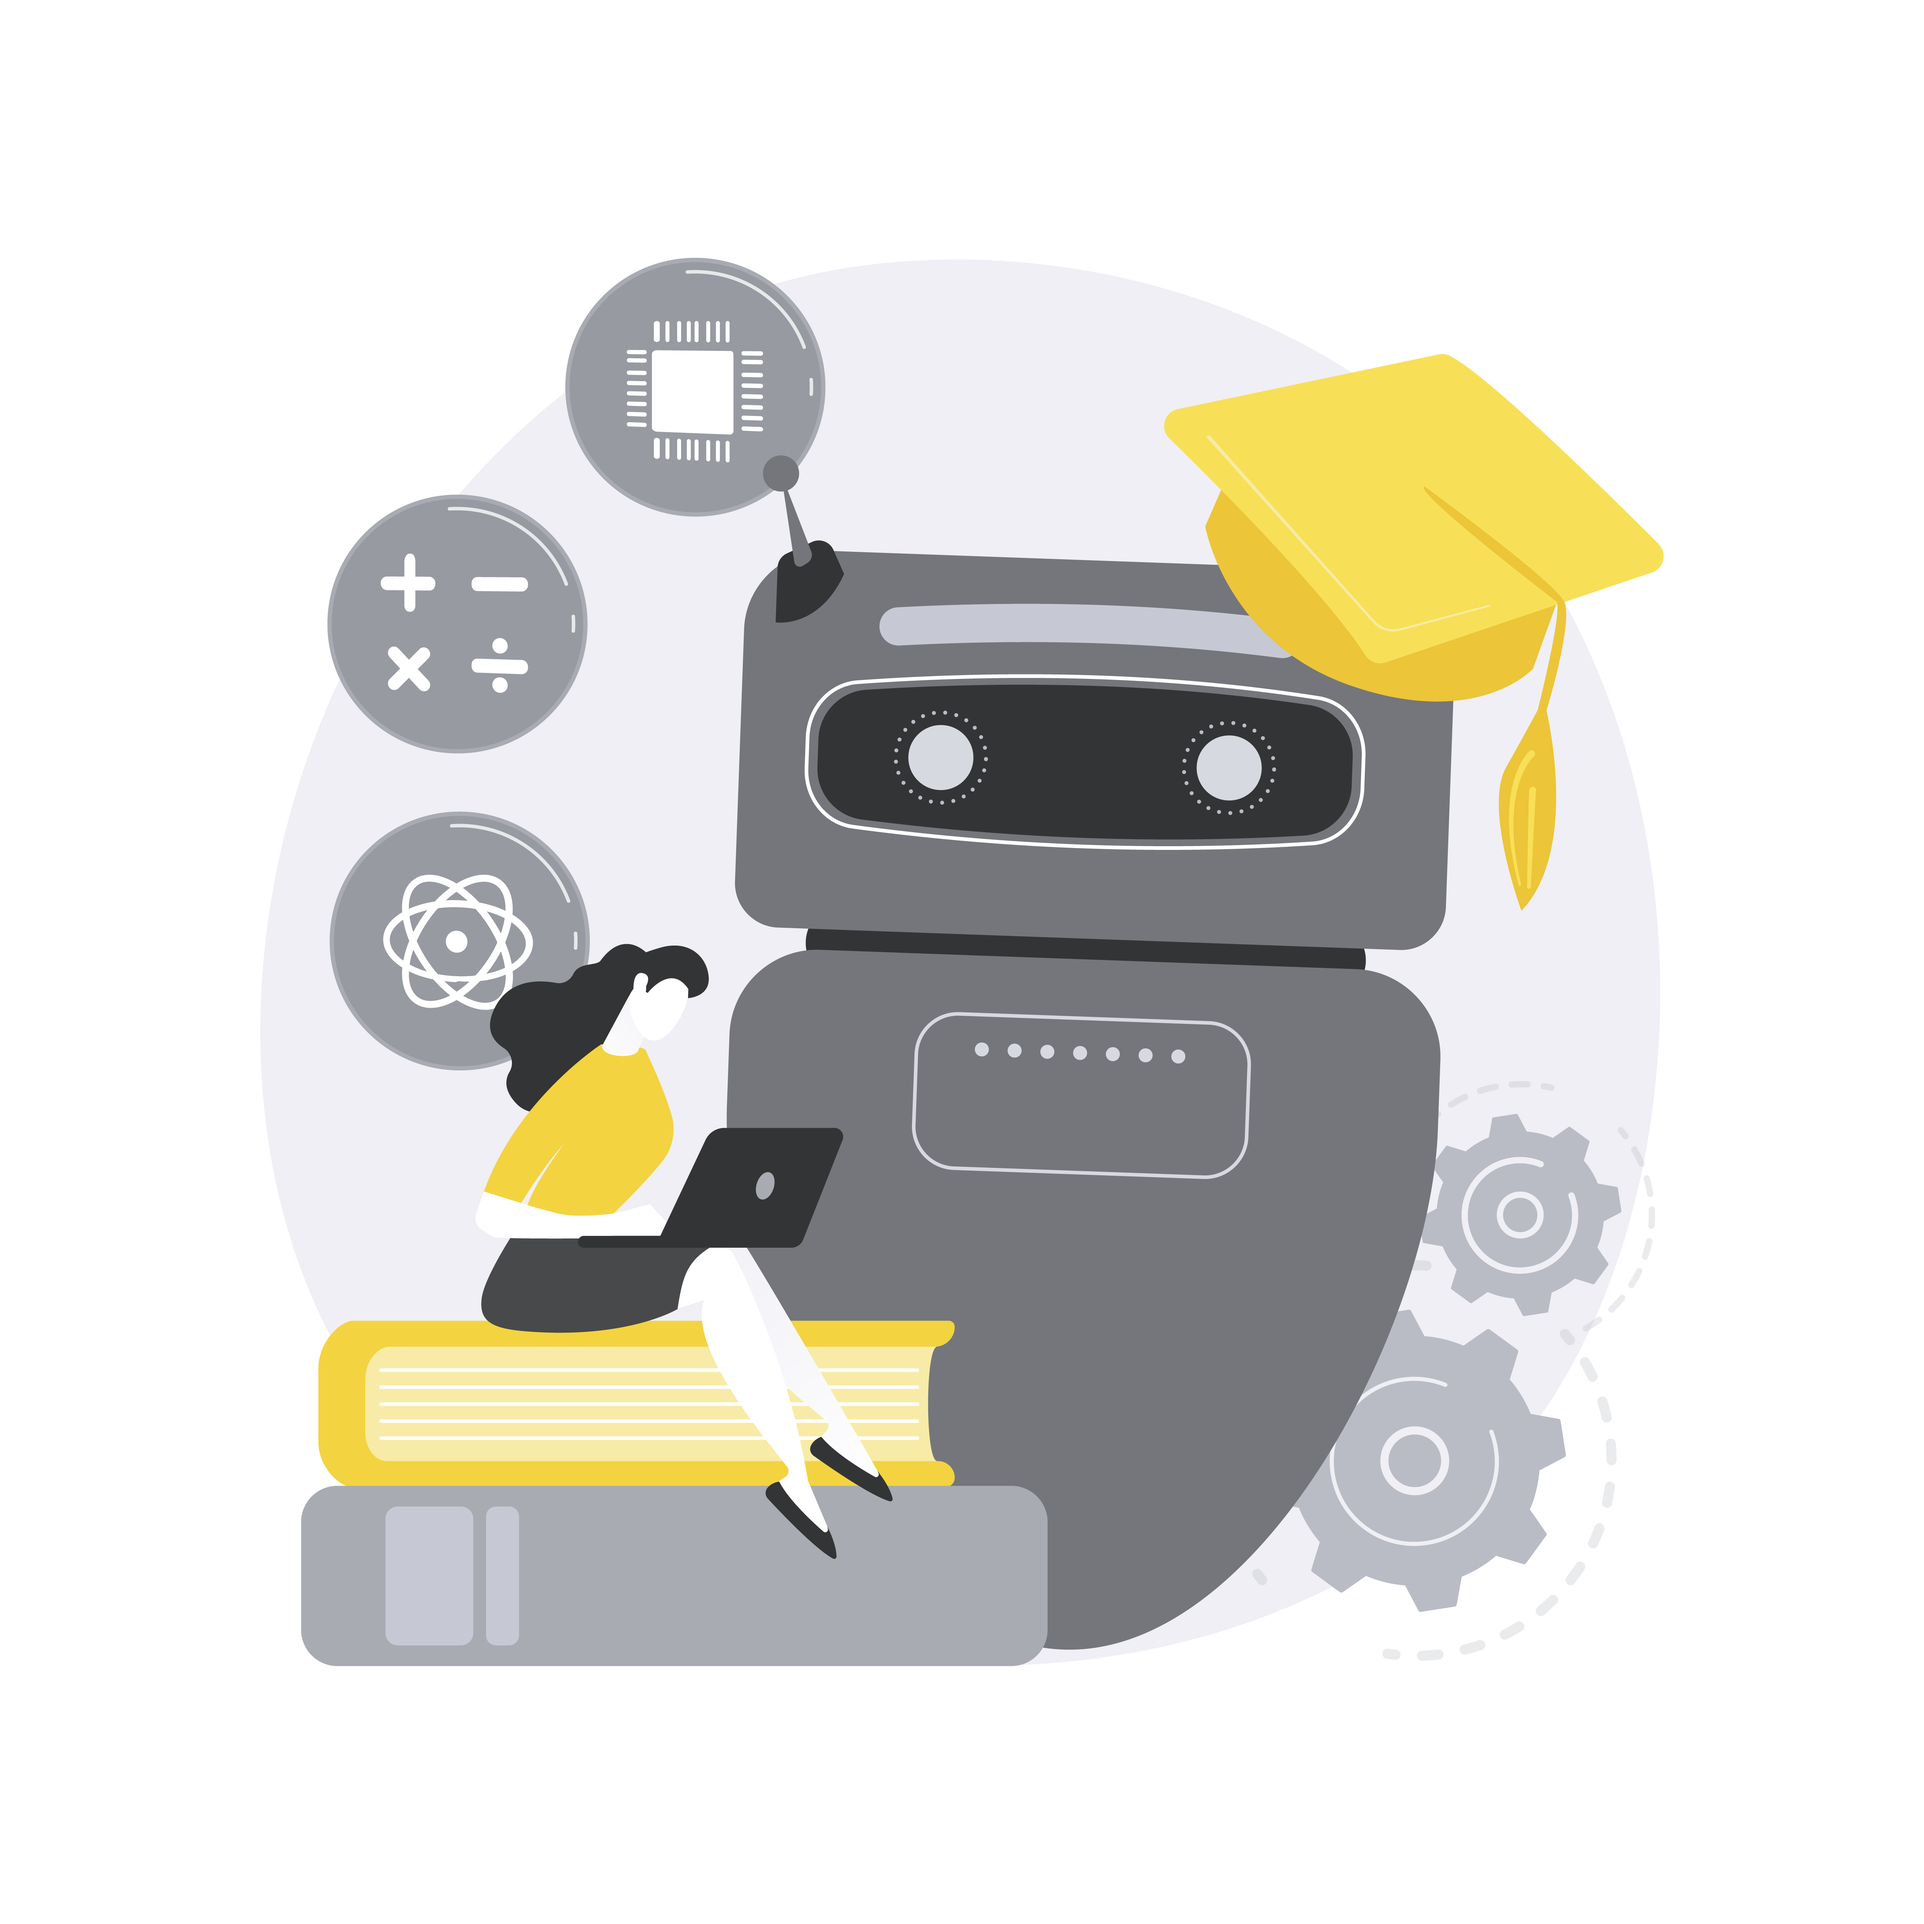
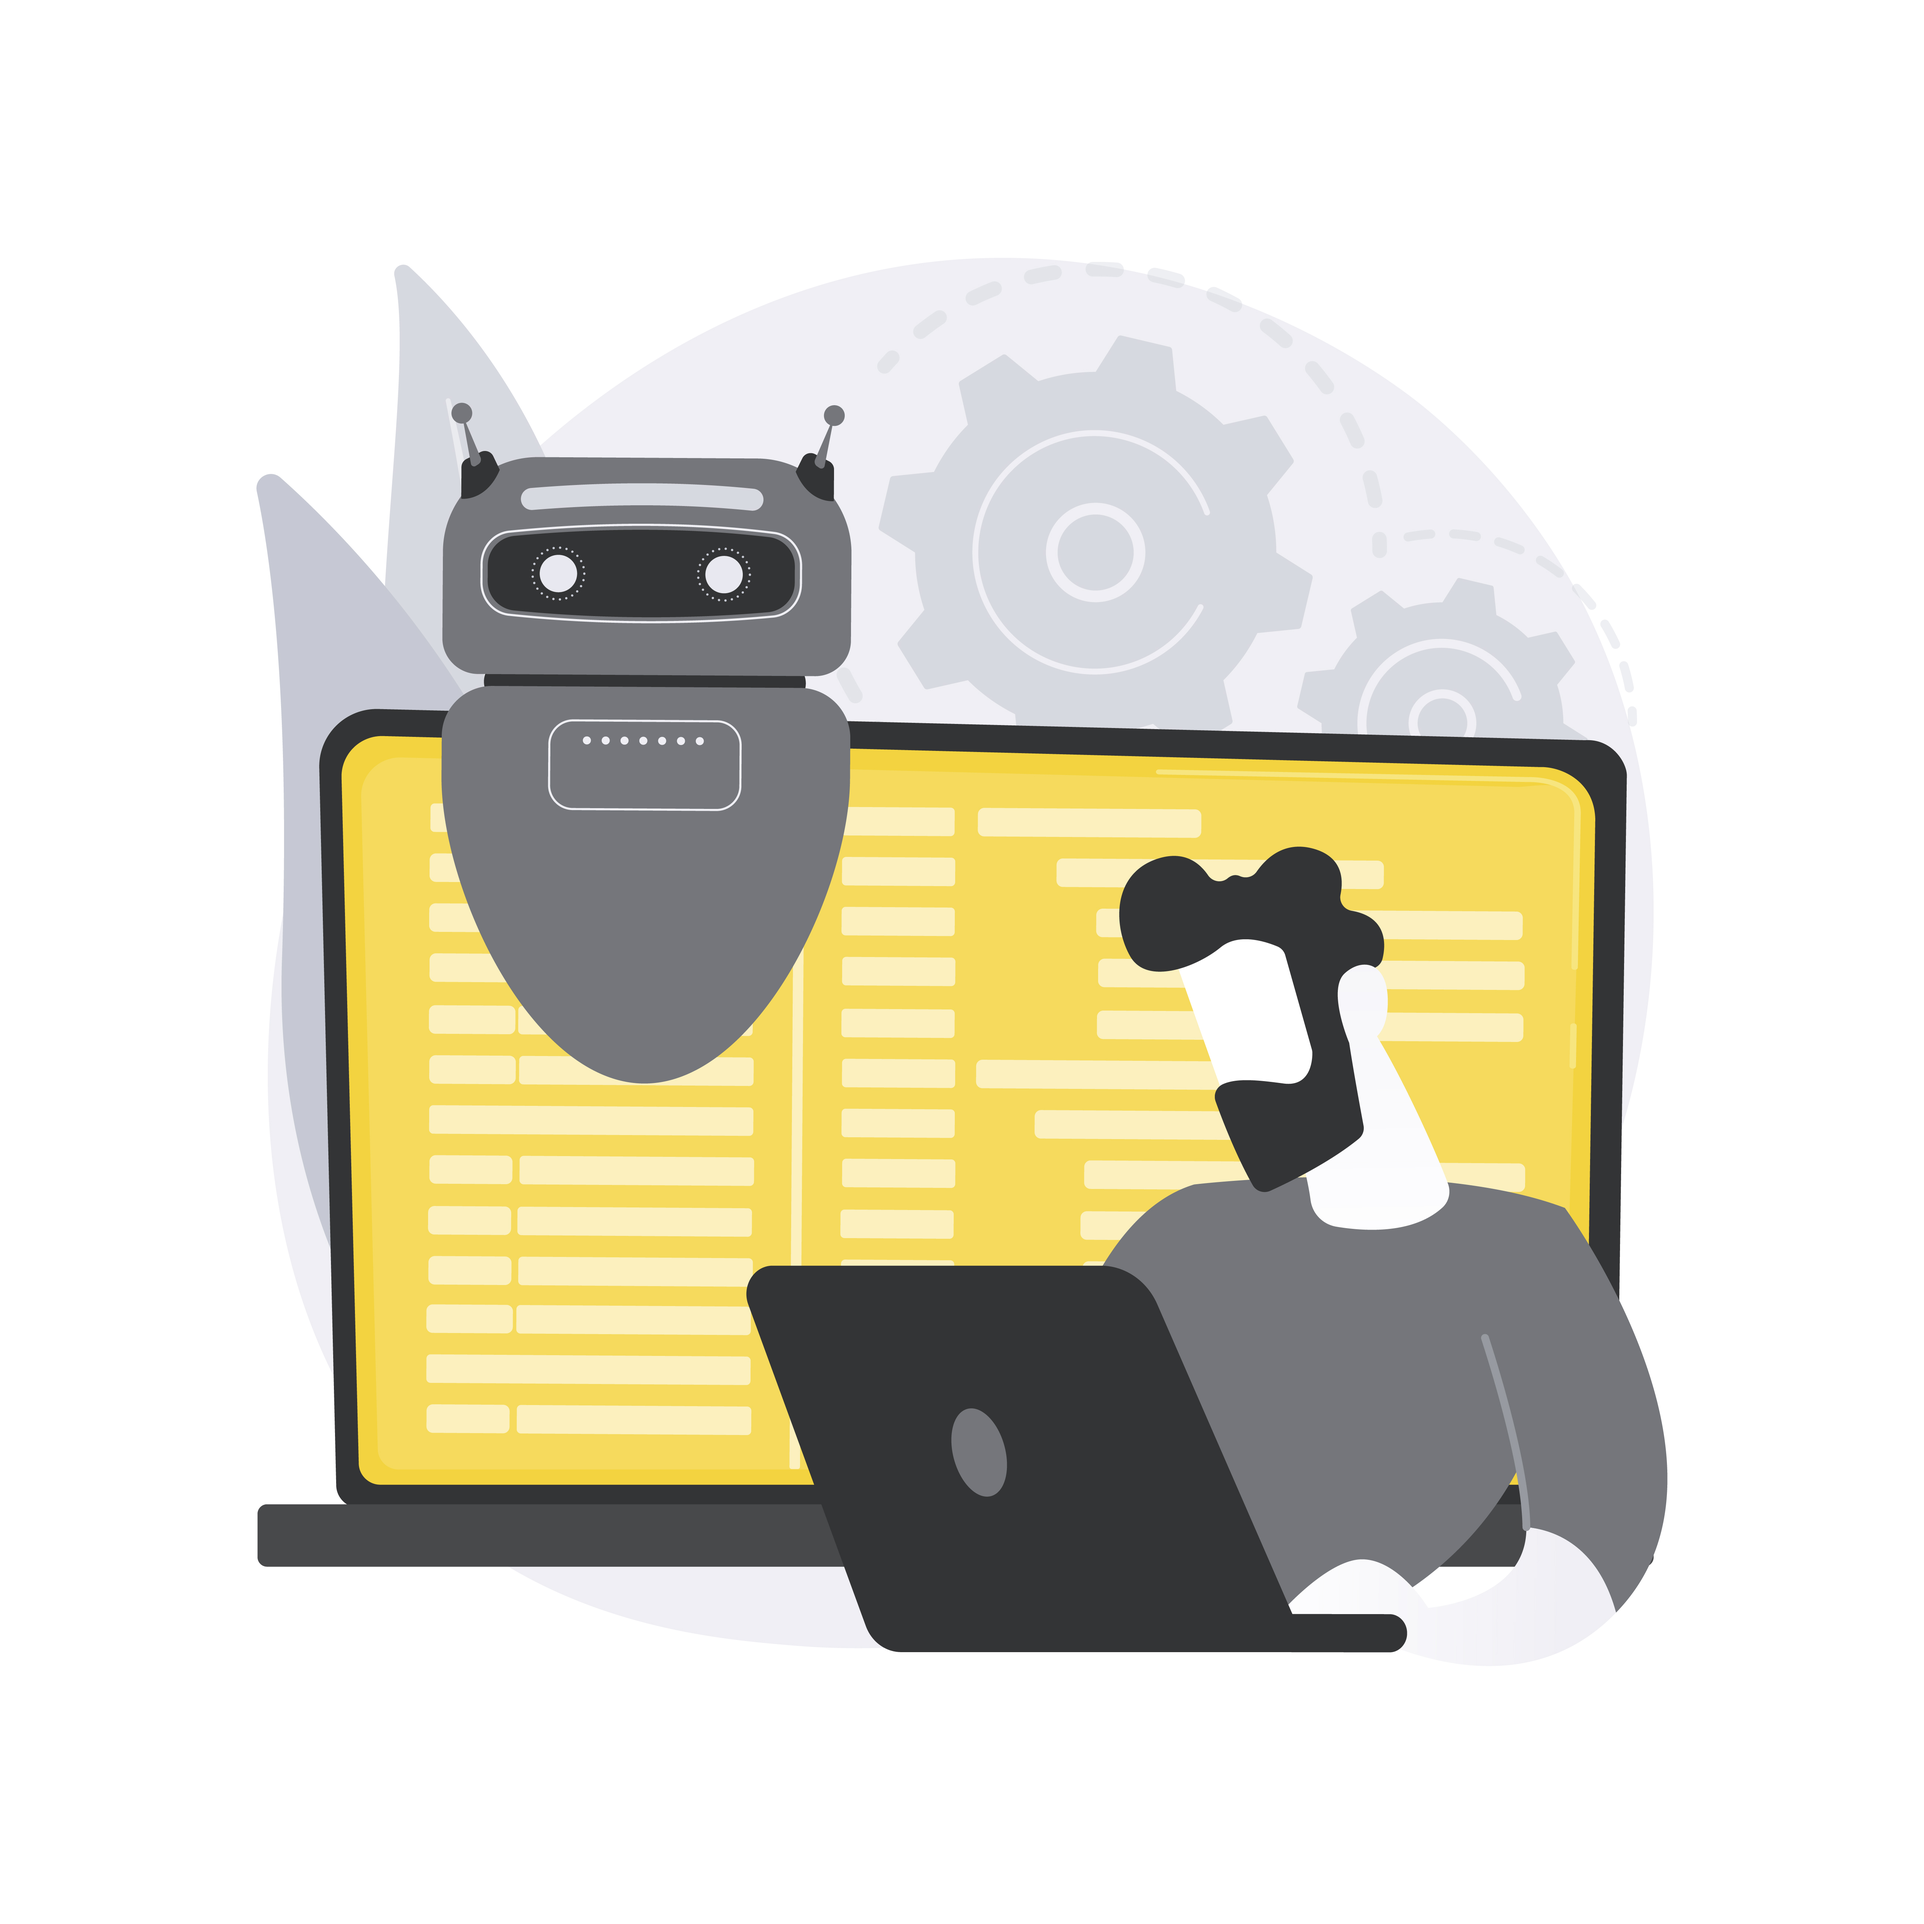
add images in whychooseus

diff --git a/src/components/WhyChooseUs.jsx b/src/components/WhyChooseUs.jsx
@@ -1,5 +1,9 @@
 import { motion } from 'framer-motion';
 import { BookOpen, GraduationCap, Laptop, ClipboardCheck, ShieldCheck, Award, Sparkles, CheckCircle2 } from 'lucide-react';
+import boardMatchedImage from '../assets/BoardMatched.jpg';
+import toppersChoiceImage from '../assets/ToppersChoice.jpg';
+import smartAiRadarImage from '../assets/SmartAIRadar.jpg';
+import offlineDownloadsImage from '../assets/OfflineDownloads.jpg';
 
 const WhyChooseUs = () => (
   <section className="py-24 overflow-hidden bg-white relative">
@@ -18,28 +22,36 @@ const WhyChooseUs = () => (
             {[
               { 
                 Icon: BookOpen, 
-                bg: 'linear-gradient(135deg, #FCD34D 0%, #F59E0B 100%)', 
+                image: boardMatchedImage,
+                imageClass: 'object-[center_45%]',
+                bg: 'linear-gradient(135deg, rgba(252, 211, 77, 0.72) 0%, rgba(245, 158, 11, 0.88) 100%)', 
                 tall: true, 
                 title: 'Board Matched', 
                 desc: '100% FBISE & Provincial' 
               },
               { 
                 Icon: GraduationCap, 
-                bg: 'linear-gradient(135deg, #818CF8 0%, #4F46E5 100%)', 
+                image: toppersChoiceImage,
+                imageClass: 'object-[center_1%] ',
+                bg: 'linear-gradient(135deg, rgba(129, 140, 248, 0.72) 0%, rgba(79, 70, 229, 0.88) 100%)', 
                 tall: false, 
                 title: 'Toppers Choice', 
                 desc: '95%+ Average Score' 
               },
               { 
                 Icon: ClipboardCheck, 
-                bg: 'linear-gradient(135deg, #34D399 0%, #059669 100%)', 
+                image: smartAiRadarImage,
+                imageClass: 'object-[center_1%]',
+                bg: 'linear-gradient(135deg, rgba(52, 211, 153, 0.72) 0%, rgba(5, 150, 105, 0.88) 100%)', 
                 tall: false, 
                 title: 'Smart AI Radar', 
                 desc: 'Weakness Tracking' 
               },
               { 
                 Icon: Laptop, 
-                bg: 'linear-gradient(135deg, #F87171 0%, #DC2626 100%)', 
+                image: offlineDownloadsImage,
+                imageClass: 'object-[center_0%]',
+                bg: 'linear-gradient(135deg, rgba(248, 113, 113, 0.72) 0%, rgba(220, 38, 38, 0.88) 100%)', 
                 tall: true, 
                 title: 'Offline Downloads', 
                 desc: 'Zero Data Mode' 
@@ -49,13 +61,23 @@ const WhyChooseUs = () => (
                 key={i} 
                 whileHover={{ scale: 1.03, y: -4 }}
                 className="rounded-3xl p-6 shadow-xl flex flex-col justify-between relative overflow-hidden text-white border border-white/20" 
-                style={{ height: item.tall ? '250px' : '190px', background: item.bg }}
+                style={{
+                  height: item.tall ? '250px' : '190px',
+                }}
               >
-                <div className="w-11 h-11 rounded-2xl bg-white/25 backdrop-blur-md flex items-center justify-center shadow-sm">
+                <img
+                  src={item.image}
+                  alt=""
+                  aria-hidden="true"
+                  className={`absolute inset-0 w-full h-full object-cover ${item.imageClass}`}
+                />
+                <div className="absolute inset-0" style={{ background: item.bg }} />
+
+                <div className="relative z-10 w-11 h-11 rounded-2xl bg-white/25 backdrop-blur-md flex items-center justify-center shadow-sm">
                   <item.Icon size={22} className="text-white" />
                 </div>
 
-                <div>
+                <div className="relative z-10">
                   <span className="text-[10px] font-black uppercase tracking-wider bg-black/20 text-white px-3 py-1 rounded-full backdrop-blur-sm inline-block mb-2">
                     {item.desc}
                   </span>
